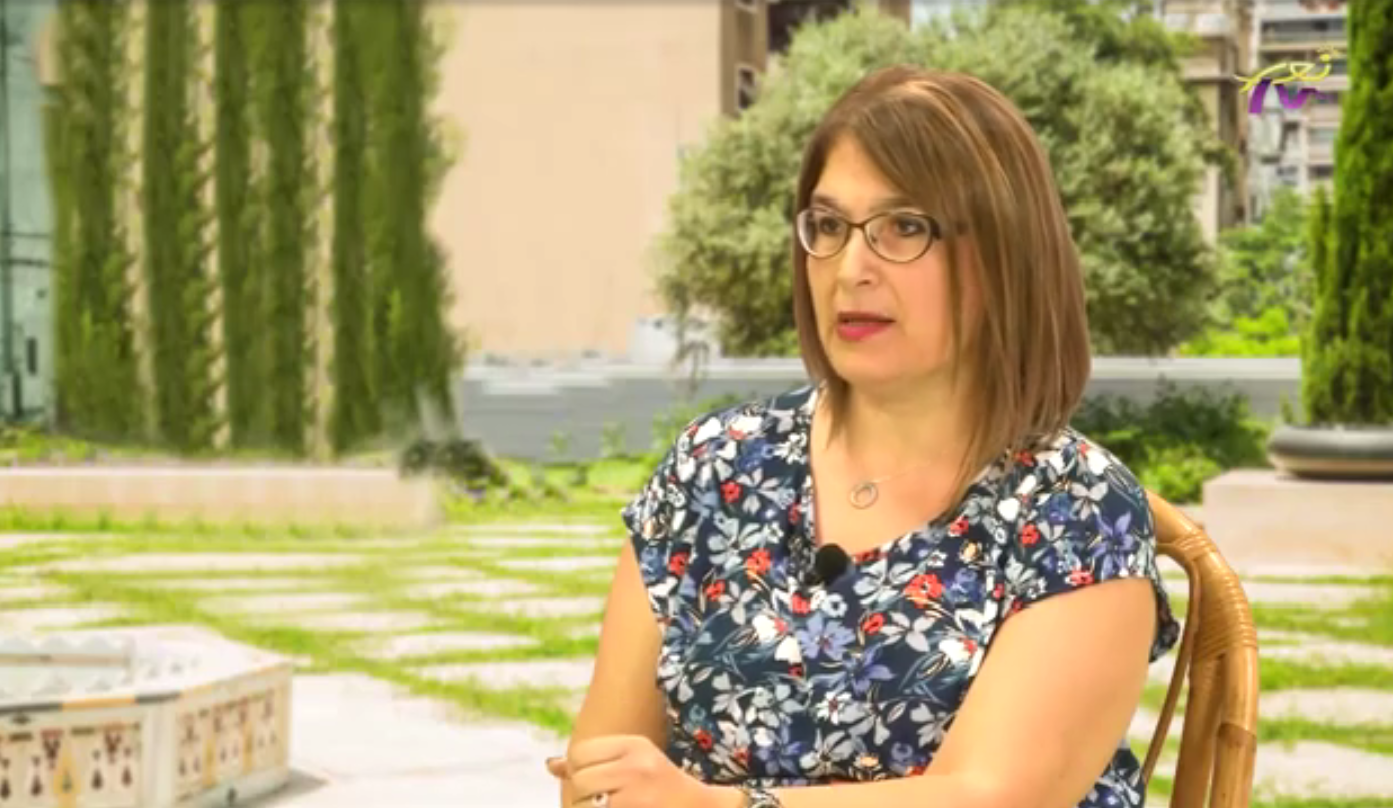
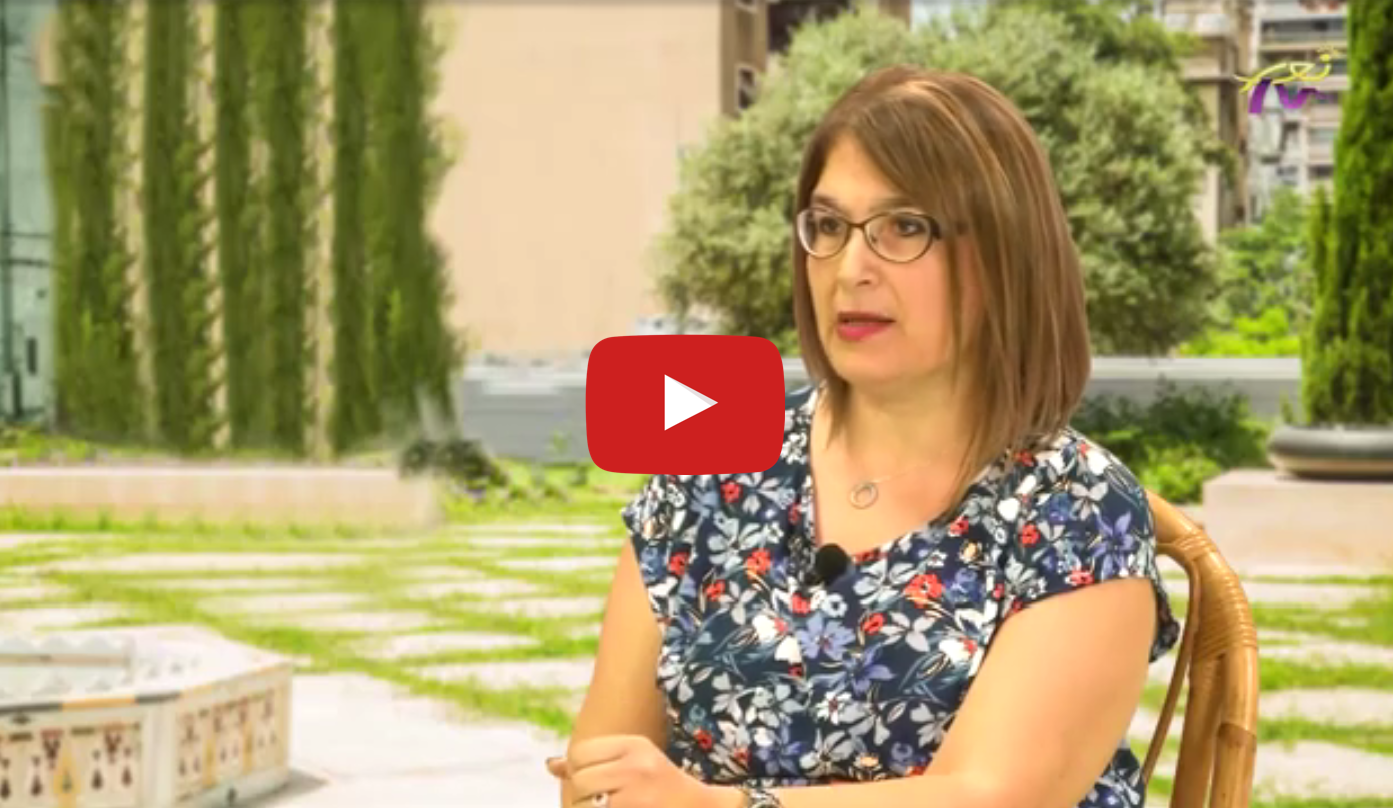
updates

Changed region(s): [[0.4013, 0.4022, 0.5865, 0.5879]]

diff --git a/_posts/9999-99-99-Tele-Liban.md b/_posts/9999-99-99-Tele-Liban.md
@@ -1,0 +1,7 @@
+---
+layout: post
+title: مقابلة على تلفزيون لبنان 
+tags: [Tv, Book-signing]
+comments: true
+---
+[![Tele-Liban](../img/posts/Tele-Liban.png){: .center-block :}](https://www.facebook.com/TL.ahlasabah/videos/547199892750797/)

diff --git a/_posts/9999-99-99-Voice-of-Lebanon.md b/_posts/9999-99-99-Voice-of-Lebanon.md
@@ -1,0 +1,7 @@
+---
+layout: post
+title: مقابلة على إذاعة صوت لبنان
+tags: [Tv, Book-signing]
+comments: true
+---
+[![Voice-of-Lebanon](../img/posts/Voice-of-Lebanon.png){: .center-block :}](https://www.youtube.com)

diff --git a/_posts/9999-99-99-Voice-of-East.md b/_posts/9999-99-99-Voice-of-East.md
@@ -1,0 +1,7 @@
+---
+layout: post
+title: مقابلة في إذاعة الشرق 
+tags: [ٌRadio, Book-signing]
+comments: true
+---
+[![Voice-of-East](../img/posts/Voice-of-East.jpg){: .center-block :}](https://www.youtube.com)
